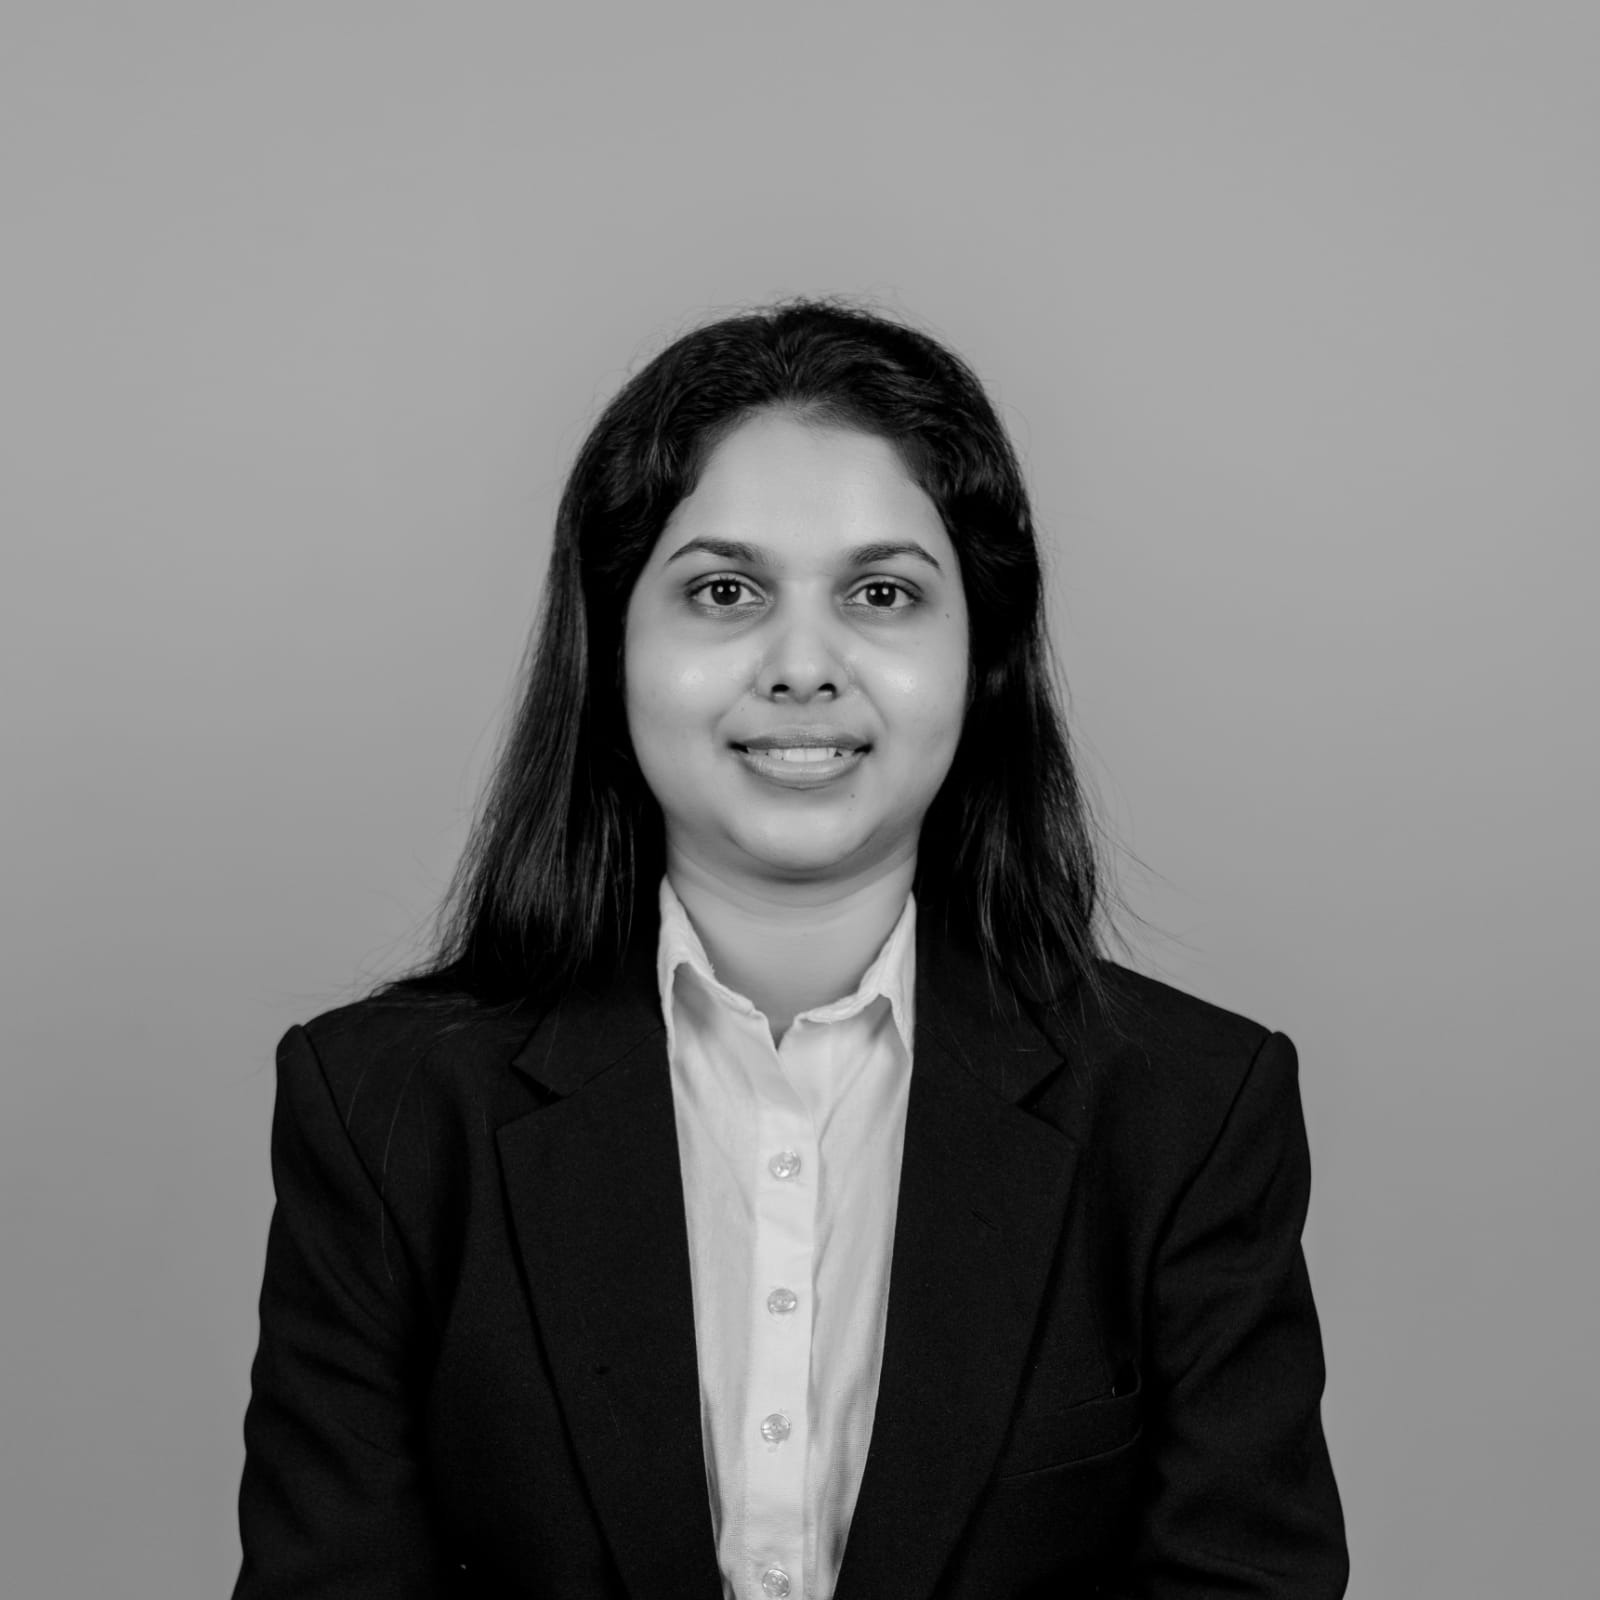
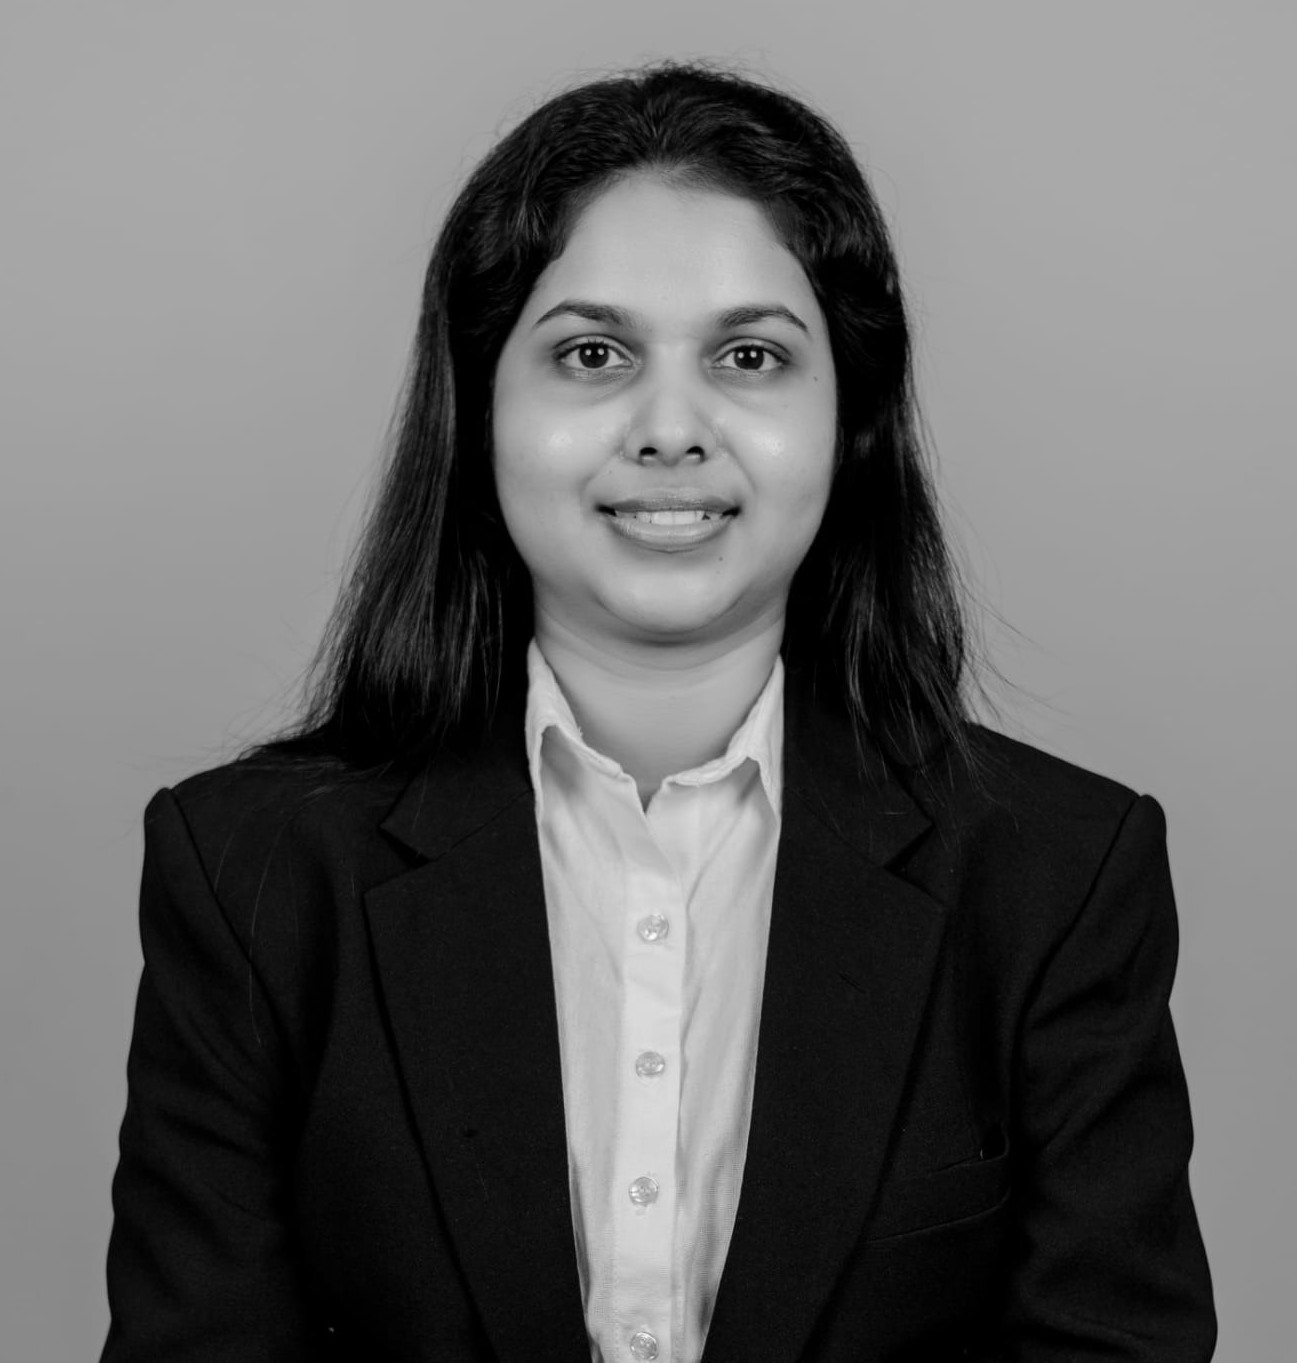
add team images

Changed region(s): [[0.0617, 0.0308, 0.9561, 1.0]]

diff --git a/src/components/contactUs/TeamMemberCard.js b/src/components/contactUs/TeamMemberCard.js
@@ -1,7 +1,9 @@
 import React from "react";
 import { Card, CardContent, Typography, Avatar, Grid } from "@mui/material";
 import { colors } from "../../consts/Colors";
-import team from "../../assets/team/malshi.jpg";
+import malshi from "../../assets/team/malshi.jpg";
+import sandamini from "../../assets/team/sandamini.jpg";
+import mifras from "../../assets/team/mifras.jpg";
 import lochandaka from "../../assets/team/lochandaka.jpg";
 import sumudu from "../../assets/team/sumudu.jpg";
 
@@ -9,22 +11,22 @@ const teamMembers = [
   {
     name: "Mifras",
     email: "mifrasagm.19@uom.lk",
-    image: team,
+    image: mifras,
   },
   {
     name: "Malshi Kulasinghe",
     email: "kulasingheams.19@uom.lk",
-    image: team,
+    image: malshi,
   },
   {
     name: "Sandamini Kumarasinghe",
     email: "kumarasinghejasn.19@uom.lk",
-    image: team,
+    image: sandamini,
   },
   {
     name: "Sachini Kumarathunga",
     email: "kumarathungadgbs.19@uom.lk",
-    image: team,
+    image: sandamini,
   },
 ];
 const TeamMemberCard = ({ name, title, email, avatarSrc, xs, sm, md }) => {
